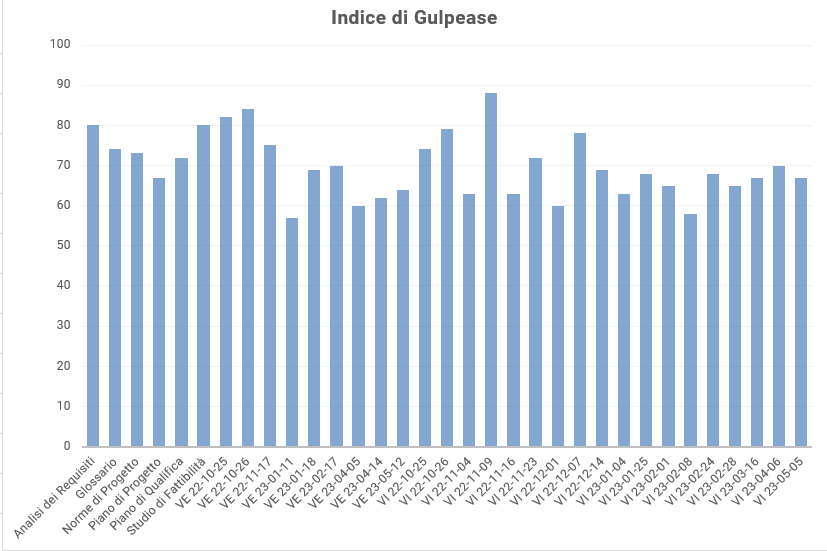
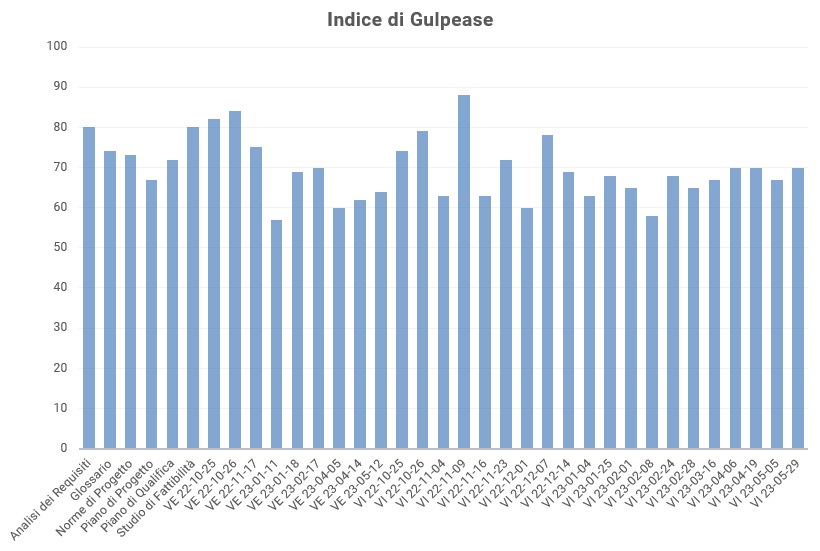
docs update misure

diff --git a/latex/esterni/doc_esterna/piano_di_qualifica/res/sections/02_misurazioni.tex b/latex/esterni/doc_esterna/piano_di_qualifica/res/sections/02_misurazioni.tex
@@ -206,8 +206,10 @@ Per calcolare i seguenti valori non sono stati considerati: i changelog, la pagi
 	VI 23-02-24 & 68 & Superato\tabularnewline
 	VI 23-02-28 & 65 & Superato\tabularnewline
 	VI 23-03-16 & 67 & Superato\tabularnewline
+	VI 23-04-19 & 70 & Superato\tabularnewline
 	VI 23-04-23 & 70 & Superato\tabularnewline
 	VI 23-05-05 & 67 & Superato\tabularnewline
+	VI 23-05-29 & 70 & Superato\tabularnewline
 	
 \end{longtable}
 
@@ -279,7 +281,7 @@ In questa sezione vengono riportati i risultati dell'attività di verifica\texts
 	Percentuale di requisiti soddisfatti& 100\% Obbligatori + 28\% Facoltativi  & Superato\tabularnewline
 	Densità di fallimenti durante l'esecuzione& 15\% & Superato\tabularnewline
 	Tempo medio di risposta & minore di 1s & Superato\tabularnewline
-	Tempo di caricamento& 7 secondi & Superato\tabularnewline
+	Tempo di caricamento& 15 secondi & Superato\tabularnewline
 	Facilità di apprendimento& 90 secondi & Superato\tabularnewline
 	Densità dei commenti & 11,05\% & Superato\tabularnewline
 	Browser supportati & 100\% & Superato\tabularnewline
